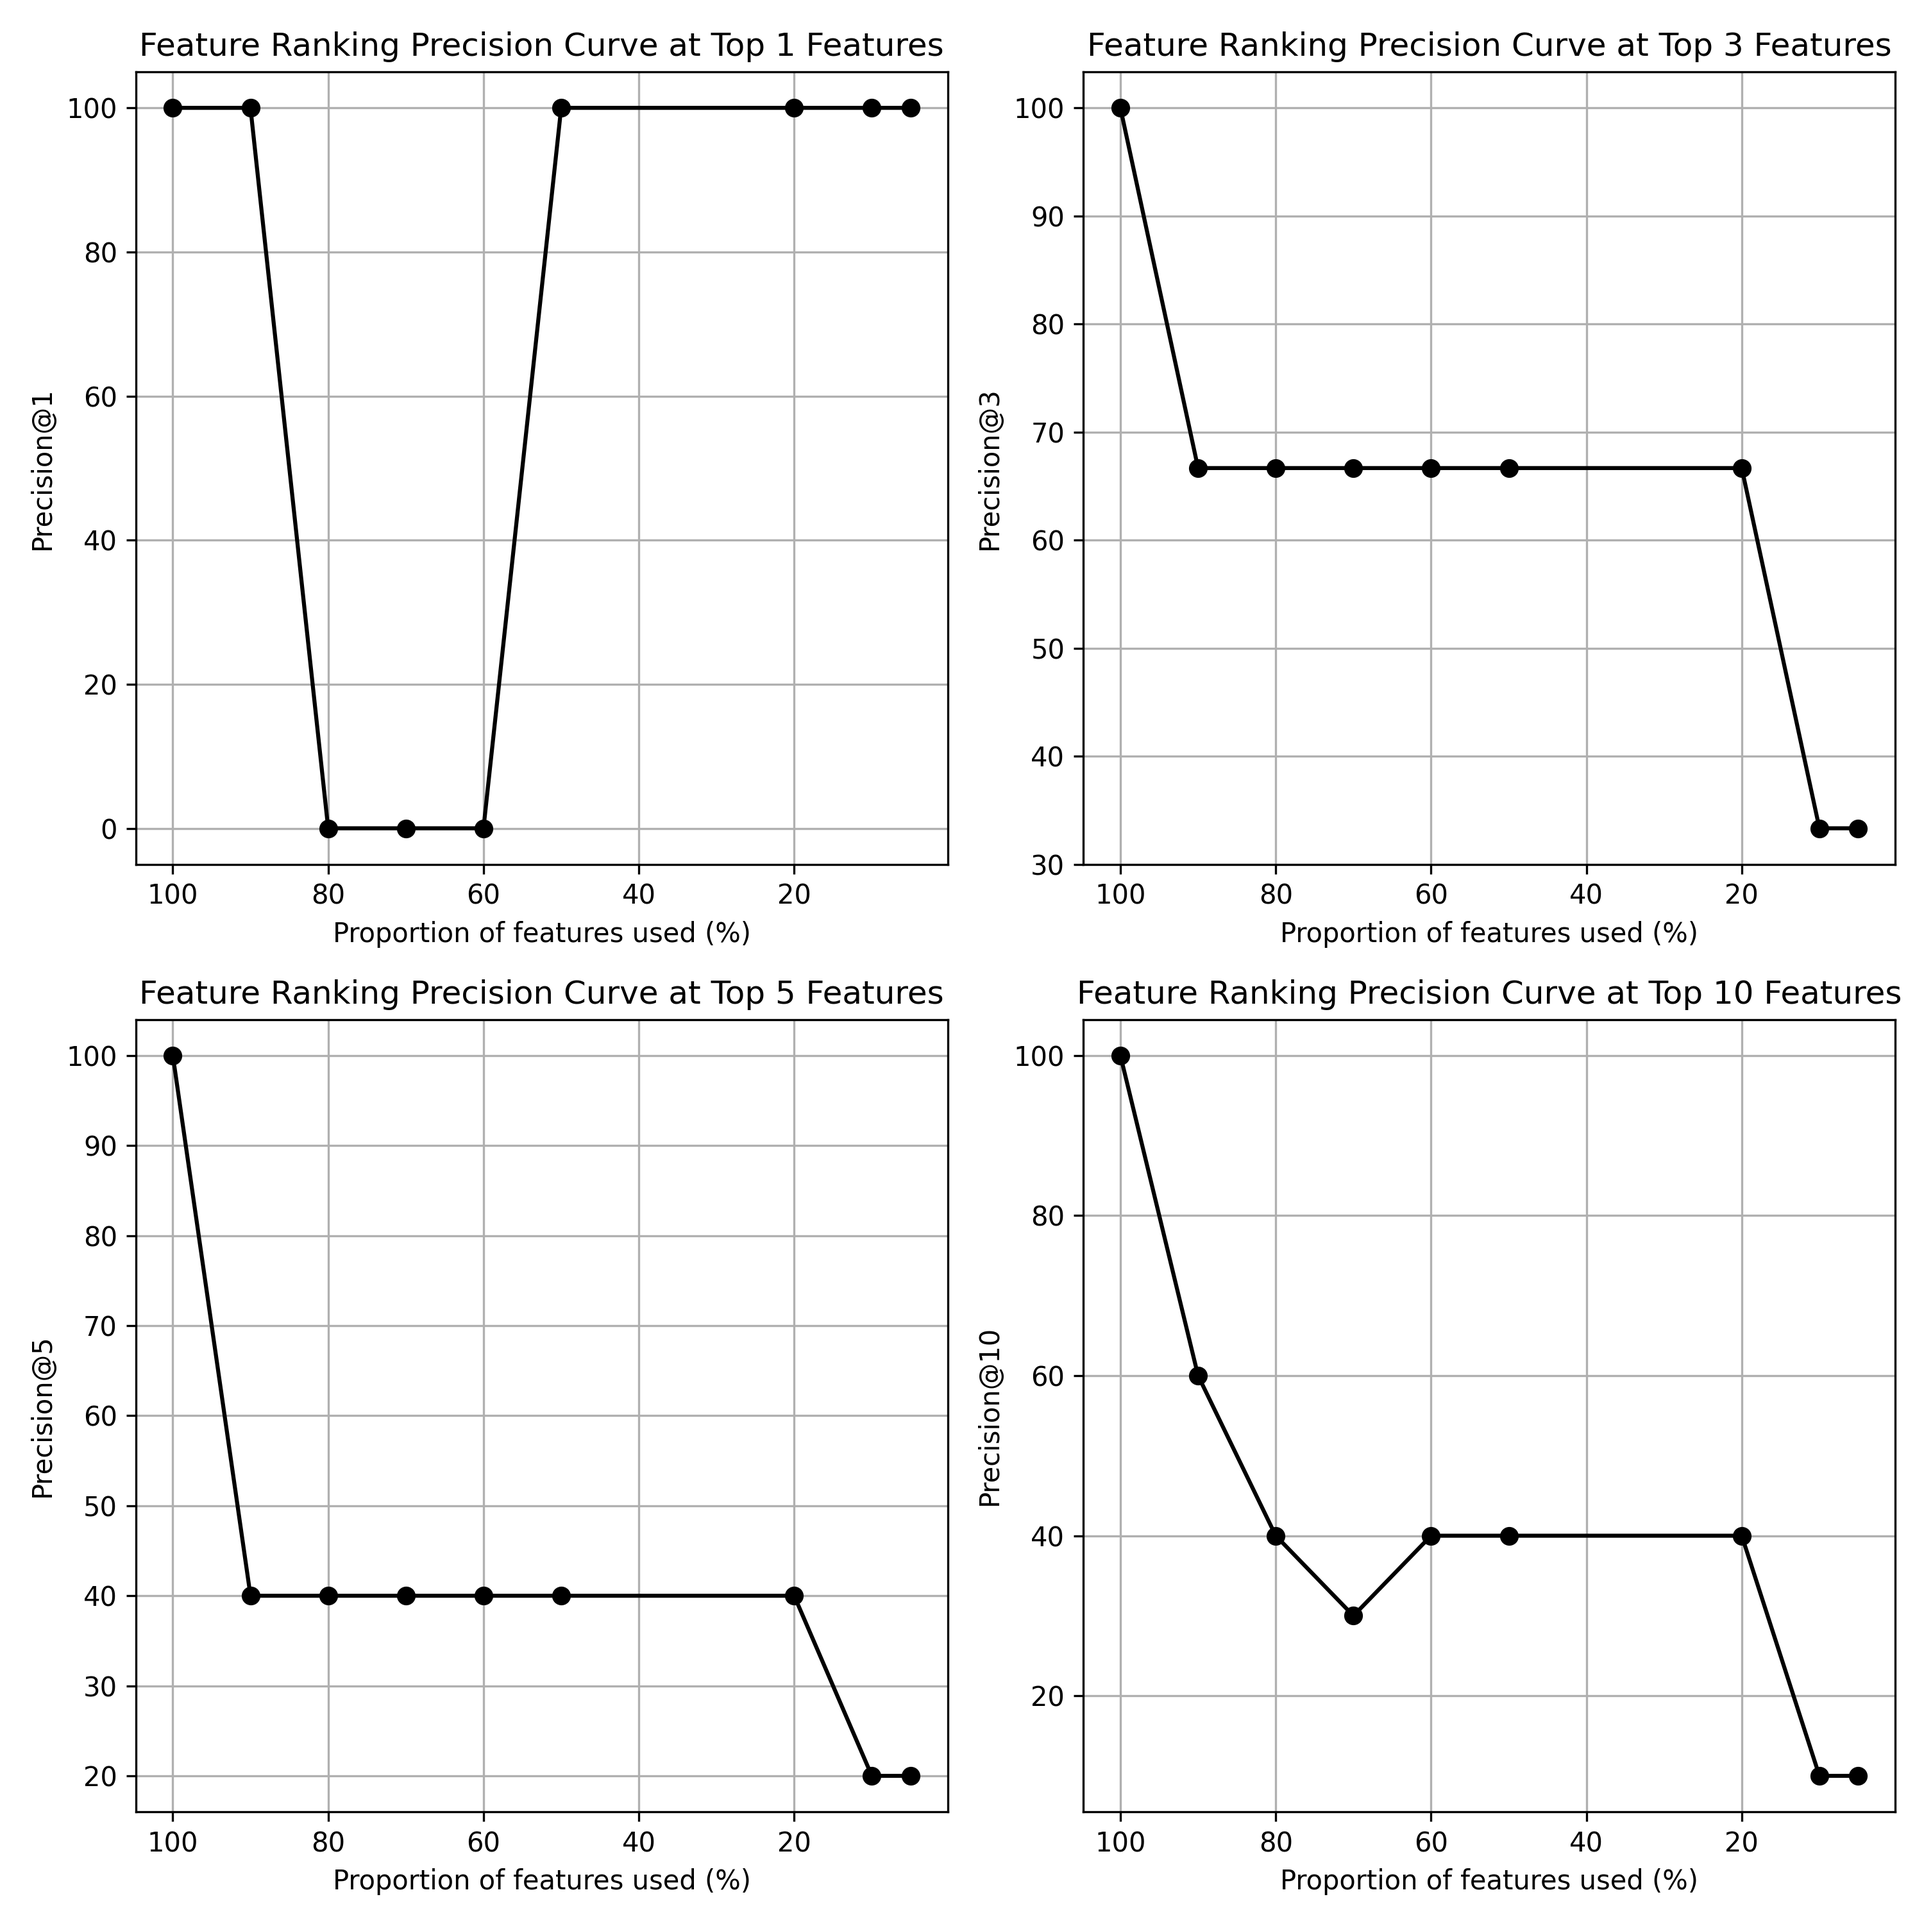
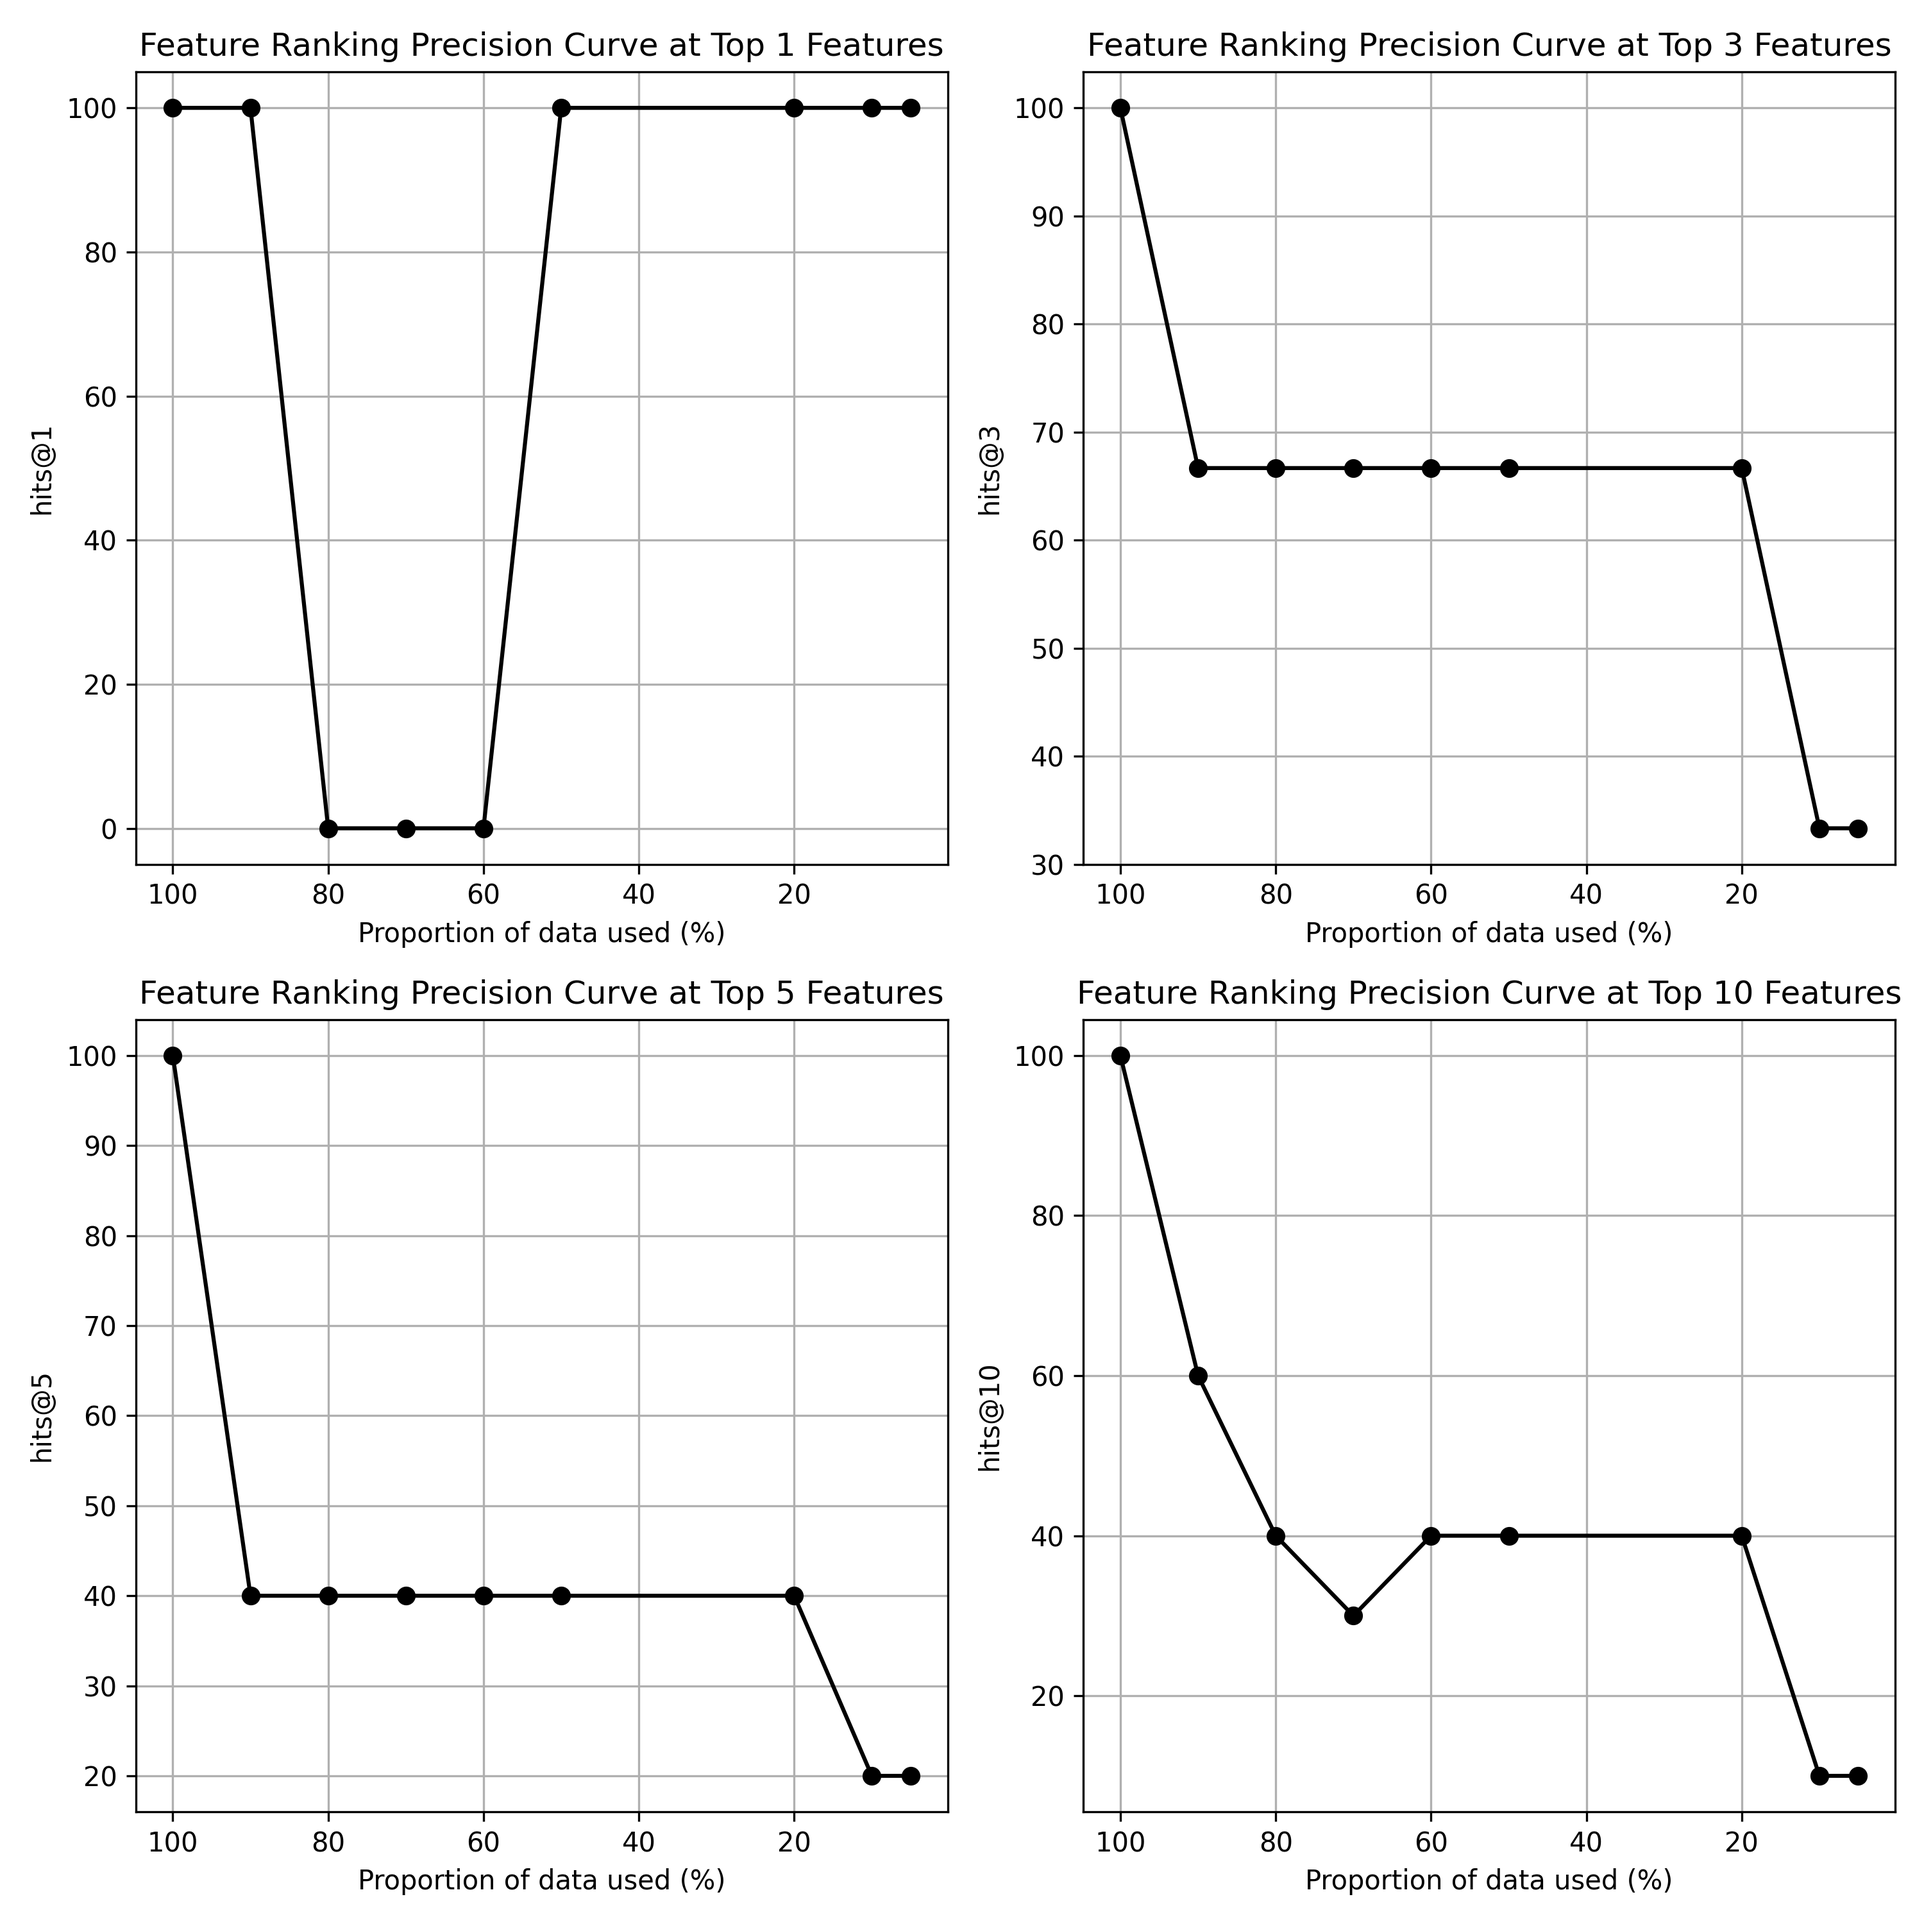
added plot update

diff --git a/benchmarks/analyse_rankings.py b/benchmarks/analyse_rankings.py
@@ -45,7 +45,7 @@ def plot_precision_curve(results, pivot_score_key, mismatches, axs, c1, c2):
 
     axs[c1,c2].plot(instances, values, marker='o', linestyle='-', color='black')
     axs[c1,c2].invert_xaxis()
-    axs[c1,c2].set(xlabel='Proportion of features used (%)', ylabel=f'Precision@{mismatches}', title=f'Feature Ranking Precision Curve at Top {mismatches} Features')
+    axs[c1,c2].set(xlabel='Proportion of data used (%)', ylabel=f'hits@{mismatches}', title=f'Feature Ranking Precision Curve at Top {mismatches} Features')
     axs[c1,c2].grid(True)
 
 if __name__ == '__main__':
